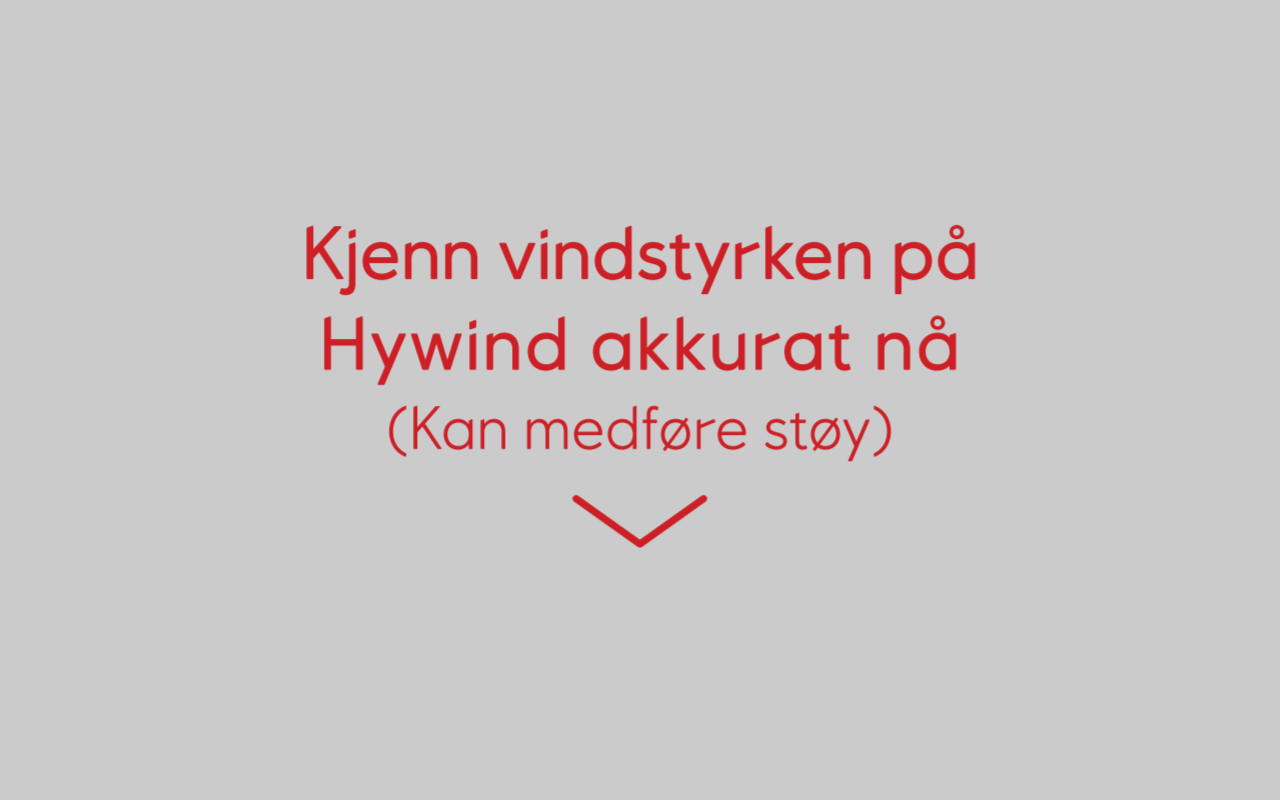
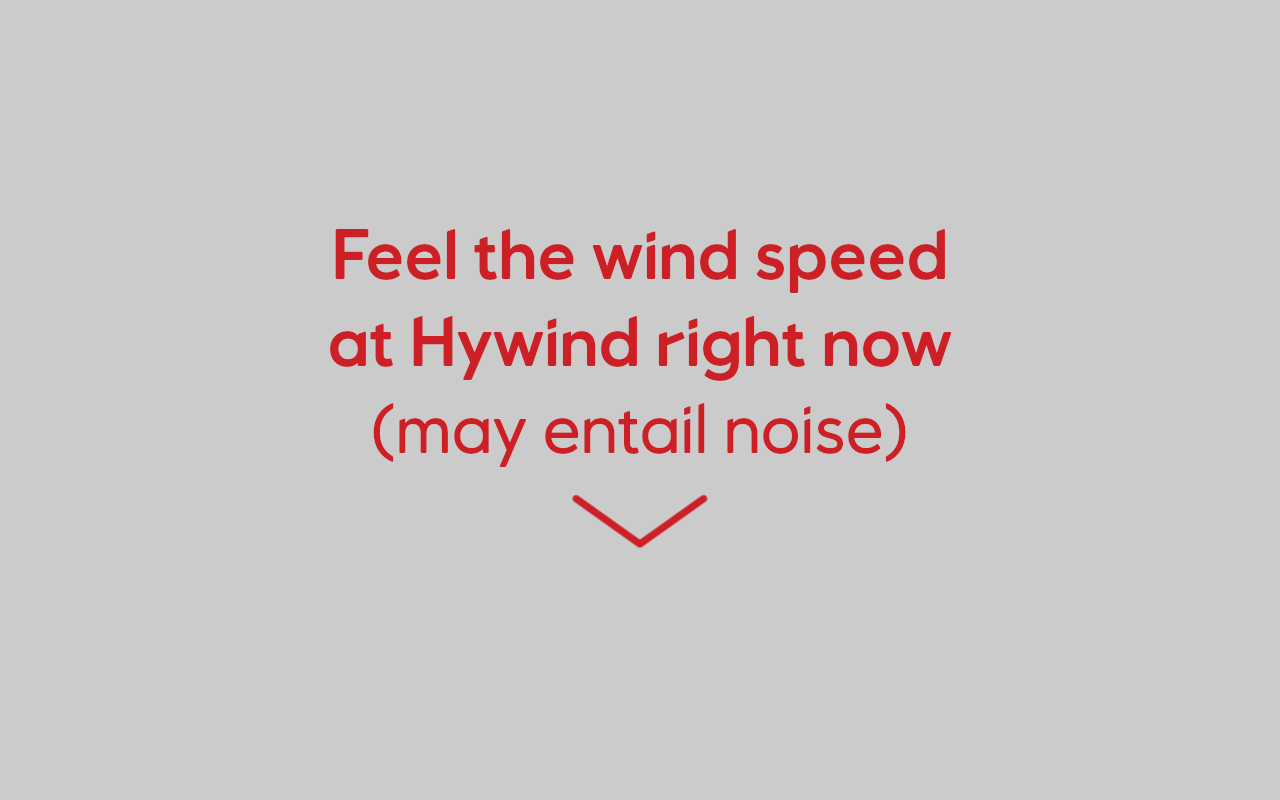
firmware/wp_visuals: english text

Changed region(s): [[0.2188, 0.2812, 0.7812, 0.4688], [0.2812, 0.5, 0.7188, 0.5938]]

diff --git a/firmware/wp_visuals/src/visuals.cc b/firmware/wp_visuals/src/visuals.cc
@@ -98,42 +98,42 @@ void pixels_of_surface(uint8_t *pixels, cairo_surface_t *surface, int width,
 
 static const char *name_of_speed(float speed) {
   if (speed < 0.3) {
-    return "Stille";
+    return "Calm";
   }
   if (speed < 1.6) {
-    return "Flau vind";
+    return "Light air";
   }
   if (speed < 3.4) {
-    return "Svak vind";
+    return "Light breeze";
   }
   if (speed < 5.5) {
-    return "Lett bris";
+    return "Gentle breeze";
   }
   if (speed < 8.0) {
-    return "Laber bris";
+    return "Moderate breeze";
   }
   if (speed < 10.8) {
-    return "Frisk bris";
+    return "Fresh breeze";
   }
   if (speed < 13.9) {
-    return "Liten kuling";
+    return "Strong breeze";
   }
   if (speed < 17.2) {
-    return "Stiv kuling";
+    return "Moderate gale";
   }
   if (speed < 20.8) {
-    return "Sterk kuling";
+    return "Gale";
   }
   if (speed < 24.5) {
-    return "Liten storm";
+    return "Strong gale";
   }
   if (speed < 28.5) {
-    return "Full storm";
+    return "Storm";
   }
   if (speed < 32.7) {
-    return "Sterk storm";
+    return "Violent storm";
   }
-  return "Orkan";
+  return "Hurricane";
 }
 
 static const double random_stddev = 0.2;
